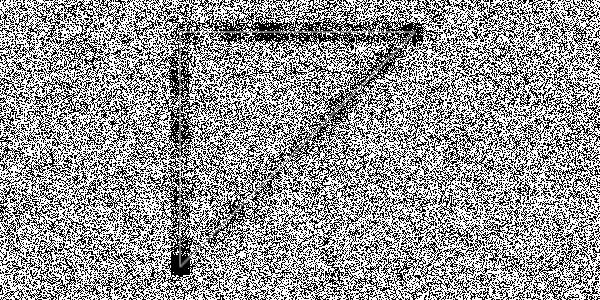
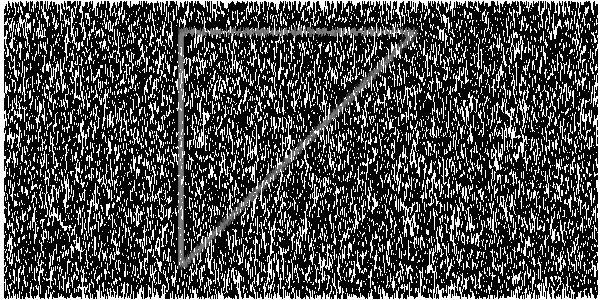
added support for different resolutions of corner-resolution-filled laplace images

diff --git a/Eyebot3/CornerModule.cs b/Eyebot3/CornerModule.cs
@@ -41,7 +41,7 @@ namespace Eyebot3
             {
                 return new Tuple<int, int>((int)(die.NextDouble() * xSize), (int)(die.NextDouble() * ySize));
             }
-            var entryChoice = (int)(Math.Pow(die.NextDouble(), 5) * orderedPixels.Count);
+            var entryChoice = (int)(Math.Pow(die.NextDouble(), 3) * orderedPixels.Count);
             var baseEntry = orderedPixels[orderedPixels.Count - entryChoice - 1];
             var chosenX = (int)(die.NextDouble() * 20 - 10);
             var chosenY = (int)(die.NextDouble() * 20 - 10);
@@ -61,9 +61,12 @@ namespace Eyebot3
                 int xLocation = nextLocationTuple.Item1;
                 int yLocation = nextLocationTuple.Item2;
 
-                var pixelBrightness = laplacer.getLaplaceVal(1, 2, .5, xLocation, yLocation, realImage);
+                var pixelSpread = 2;
+                var surroundSpread = 3;
 
-                if (xLocation >= 0 && yLocation >= 0 && xLocation < xSize && yLocation < ySize)
+                var pixelBrightness = laplacer.getLaplaceVal(pixelSpread, surroundSpread, .5, xLocation, yLocation, realImage);
+
+                if (xLocation >= pixelSpread && yLocation >= pixelSpread && xLocation < xSize - pixelSpread && yLocation < ySize - pixelSpread)
                 {
                     var pixelLocation = new Tuple<int, int>(xLocation, yLocation);
                     if (knownPixels.ContainsKey(pixelLocation))
@@ -81,8 +84,13 @@ namespace Eyebot3
                     orderedPixels.Insert(listInsertLocation, pixelLocation);
                     orderedBrightnesses.Insert(listInsertLocation, pixelBrightness);
 
-
-                    perceivedImage.SetPixel(xLocation, yLocation, Color.FromArgb(255, pixelBrightness, pixelBrightness, pixelBrightness));
+                    for (int i = -1 * pixelSpread + 1; i < pixelSpread; i++)
+                    {
+                        for (int j = -1 * pixelSpread + 1; j < pixelSpread; j++)
+                        {
+                            perceivedImage.SetPixel(xLocation + 1, yLocation + j, Color.FromArgb(255, pixelBrightness, pixelBrightness, pixelBrightness));
+                        }
+                    }
                 }
 
                 counter++;
